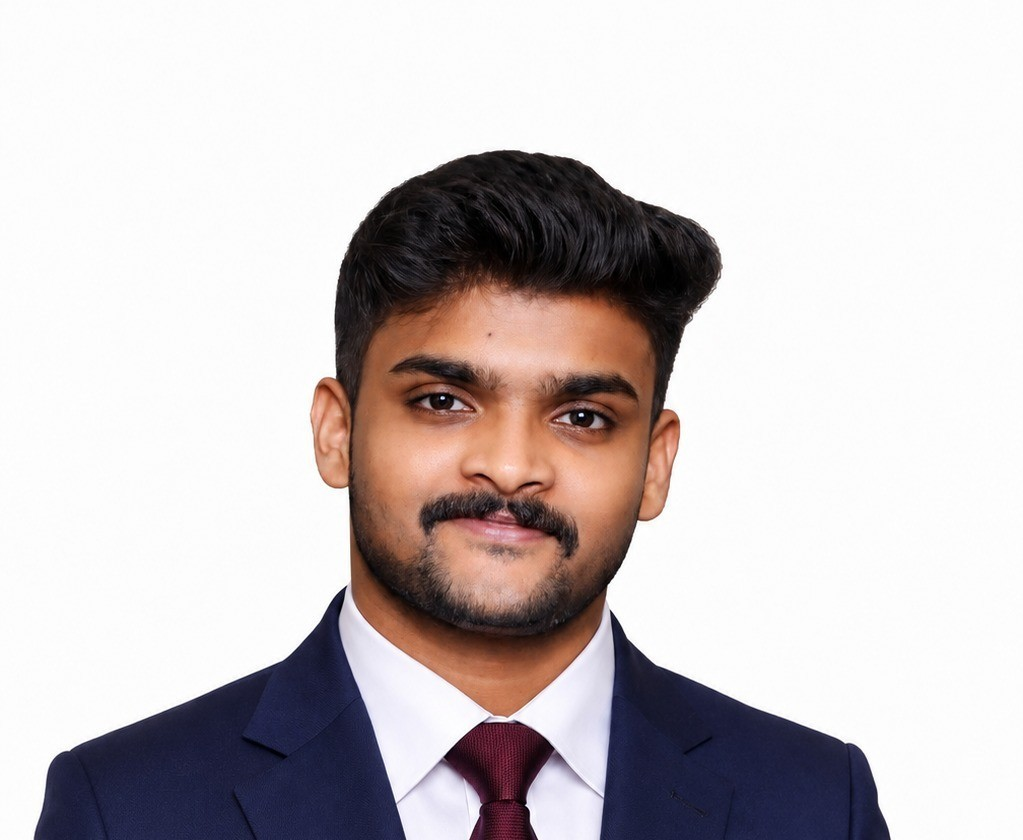
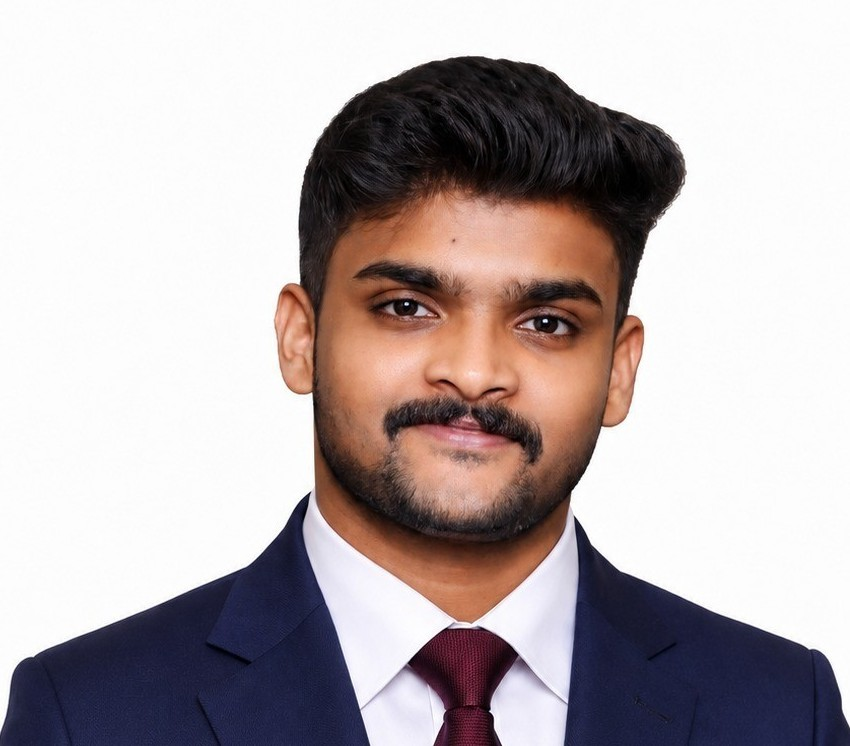
changed metatags

diff --git a/src/app/team/page.js b/src/app/team/page.js
@@ -202,7 +202,7 @@ const OurTeam = () => {
             {/* Image Column */}
             <div className="w-full max-w-sm sm:max-w-md md:max-w-[420px] mx-auto md:mx-0">
               <Image
-                src="/abhijith2.jpeg"
+                src="/athul.jpeg"
                 alt="Athul Gopakumar Pillai"
                 width={420}
                 height={420}
